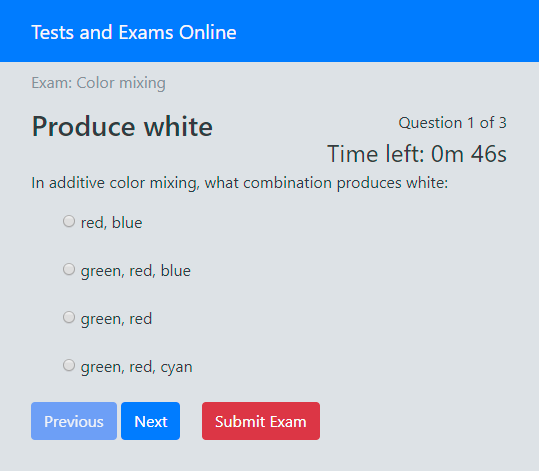
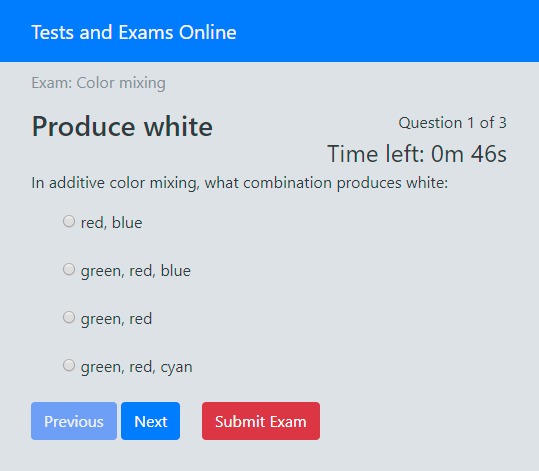
Added articles and changed screen capture on README.md

diff --git a/README.md b/README.md
@@ -4,6 +4,10 @@
 
 ## Introduction
 This is a case study project for a series of articles I'm writing about developing webapps based on [Redux](http://redux.js.org/). It is not finished yet, nor the articles. It is based on my recent blog article "[Web app architecture based on Redux](http://devblog.ztp.pt/web-app-architecture-based-on-redux/)" (also on [Medium](https://medium.com/p/web-app-architecture-based-on-redux-1e16294c817a)).
+The articles:
+- [Case Study pt.1: Planning business logic using Redux](https://medium.com/@akaztp/case-study-pt-1-planning-business-logic-using-redux-e8c7807e89bf)
+- Case Study pt.2: Implementing Redux on Angular (to be published)
+- Case Study pt.3: Testing Redux Effects on Angular (to be published)
 
 ## Project Subject
 The project is a webapp for making online exams or quizzes:
